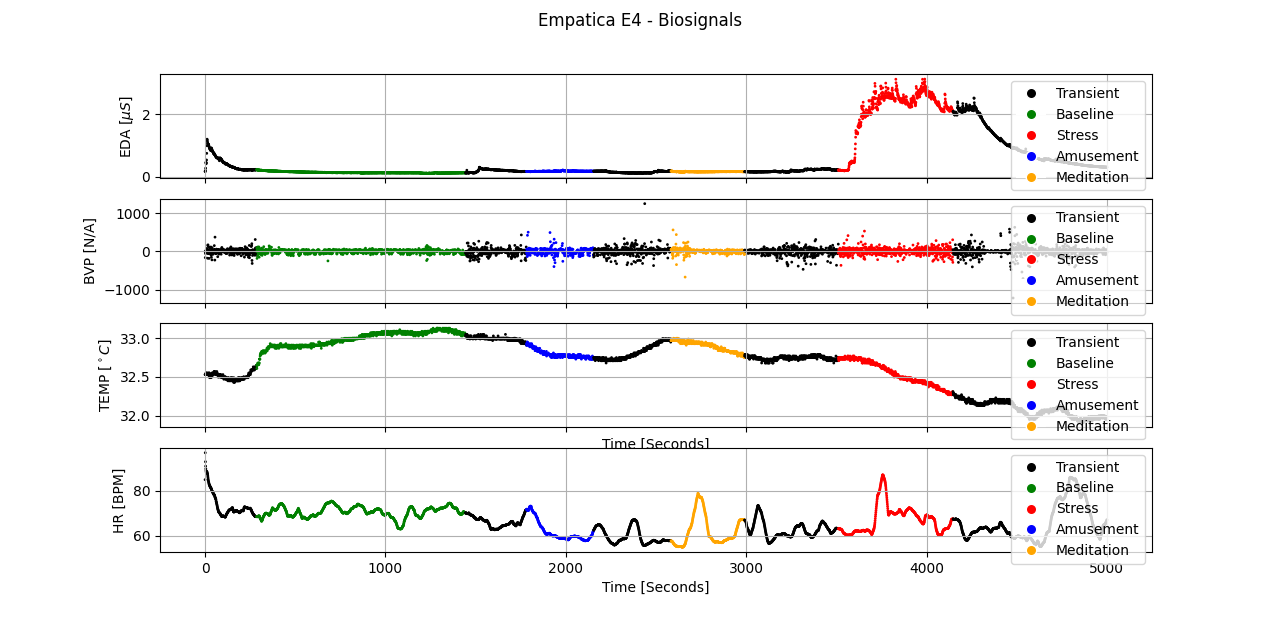
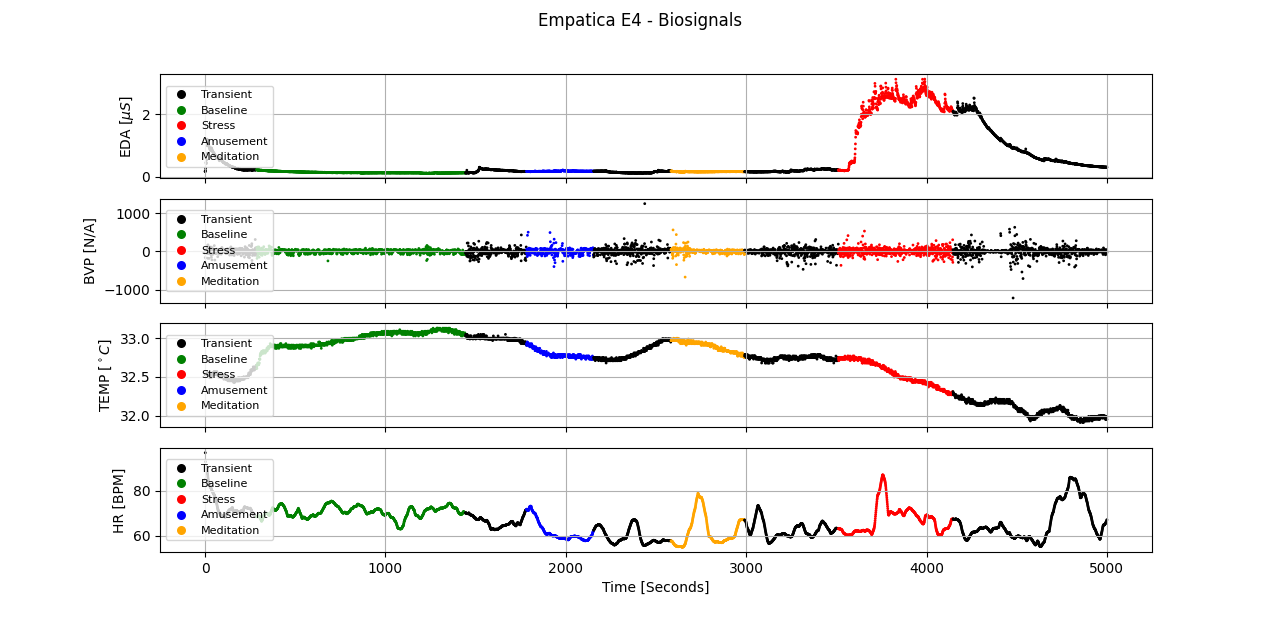
123

diff --git a/src/model/train.py b/src/model/train.py
@@ -1,9 +1,12 @@
-from tkinter import N
 import numpy as np
-from tqdm import tqdm
+import sklearn
 from sklearn import linear_model
+from sklearn.ensemble import RandomForestRegressor
+from sklearn.tree import DecisionTreeRegressor
+from sklearn.neighbors import NearestNeighbors
+from sklearn.model_selection import GridSearchCV
+from sklearn.metrics import mean_squared_error
 import sys
-import ast
 sys.path.insert(0, 'C:/Users/Bruger/Documents/CDA/CDA/src/data')
 from utils import preprocessing_utils as pre
 from data import *
@@ -11,8 +14,8 @@ from data import *
 
 # Signals to include
 signals = ["EDA","TEMP","BVP","HR"]
-window_size = [20,20,20,20]
-window_shift = [5,5,5,5]
+window_size = [50,50,50,50]
+window_shift = [13,13,13,13]
 fs = [4,4,32,1]
 
 # initialise memory
@@ -20,6 +23,18 @@ X_train = np.zeros((65,109)) # number of phases (for 13 subjects) x number of fe
 y_train = np.zeros((65,32)) # number of phases (for 13 subjects) x number of features
 X_test = np.zeros((5,109)) # number of phases (for one subject) x number of features
 y_test = np.zeros((5,32)) # number of phases x number of questions
+
+# dictonaries
+en = {}
+nn = {}
+dt = {}
+rf = {}
+
+# list for errors
+test_en = []
+test_nn = []
+test_dt = []
+test_rf = []
 
 # initialise number of cross-validation iterations
 #n = 10
@@ -29,16 +44,17 @@ n = 1
 s = np.arange(len(sub_lst))
 np.random.shuffle(s)
 
-
 # leave-one-patient-out cross-validation
 for v in range(n):
+
     CV_idx = [np.array(sub_lst)[s[v]]] # pick random subject to exclude for testing 
     train_idx = [np.array(sub_lst)[np.arange(len(sub_lst))!=s[v]]][0] # use all other subjects for training 
     c_train = -1 # counter 
     c_test = -1 # counter
+
     for j in range(5): # for every phase
         
-        # training-set
+        # train set
         for i in train_idx: # for every member of training
             c_train += 1 # update counter
             # feature extraction
@@ -71,9 +87,7 @@ for v in range(n):
             X_train[c_train,:] = X_temp # features
             y_train[c_train,:] = np.hstack([[int(a) for a in lst] for lst in [*quest[i][cond[j]].values()]]) # targets
 
-            # standardise 
-
-        # test_set
+        # test set
         for i in CV_idx: # for every member of testing
             c_test += 1 # update counter
             # feature extraction 
@@ -105,12 +119,75 @@ for v in range(n):
             # assign values
             X_test[c_test,:] = X_temp # features
             y_test[c_test,:] = np.hstack([[int(a) for a in lst] for lst in [*quest[i][cond[j]].values()]]) # targets
+            
+            
+    # compute values for standardisation
+    X_train_mean = np.mean(X_train,axis=0)
+    X_train_std = np.std(X_train,axis=0)
+    y_train_mean = np.mean(y_train,axis=0)
+    y_train_std = np.std(y_train,axis=0)
 
+    # standardise train and test
+    X_train = pre.Standardise(X_train,X_train_mean,X_train_std)
+    y_train = pre.Standardise(y_train,y_train_mean,y_train_std)
+    X_test = pre.Standardise(X_test,X_train_mean,X_train_std)
+    y_test = pre.Standardise(y_test,y_train_mean,y_train_std)
 
     # models
-    print(X_train,y_train)
+    #model_en = linear_model.ElasticNet()
+    #model_nn = KNeighborsRegressors(weights="distance",p=2)
+    #model_dt = DecisionTreeRegressor()
+    #model_rf = RandomForestRegressor()
+
+    # parameters for cross-validation
+    #param_grid_en = {"alpha": np.arange(0,3,0.25), "l1_ratio": np.arange(0,1,0.1)}
+    #param_grid_nn = {"n_neighbors": range(3,10)}
+    #param_grid_dt = {"max_depth":range(5,15) ,"min_samples_split" range(2,5):,"min_samples_leaf":range(2,5), "max_features": range(5,100,15)}
+    #param_grid_rf = {"n_estimators":range(30,151,5),"max_depth":range(5,15) ,"min_samples_split" range(2,5):,"min_samples_leaf":range(2,5), "max_features": range(5,100,15)}
+    
+    # grid search
+    #grid_en = GridSearchCV(estimator=model_en,param_grid=param_grid_en,cv=5)
+    #grid_nn = GridSearchCV(estimator=model_nn,param_grid=param_grid_nn,cv=5)
+    #grid_dt = GridSearchCV(estimator=model_dt,param_grid=param_grid_dt,cv=5)
+    #grid_rf = GridSearchCV(estimator=model_rf,param_grid=param_grid_rf,cv=5)
+
+    # fit 
+    #grid_en.fit(X_train,y_train)
+    #grid_nn.fit(X_train,y_train)
+    #grid_dt.fit(X_train,y_train)
+    #grid_rf.fit(X_train,y_train)
+
+    # save best model for testing 
+    #en[v] = {"best estimator":grid_en.best_estimator, "best parameters": grid_en.best_params_}
+    #nn[v] = {"best estimator":grid_nn.best_estimator, "best parameters": grid_nn.best_params_}
+    #dt[v] = {"best estimator":grid_dt.best_estimator, "best parameters": grid_dt.best_params_}
+    #rf[v] = {"best estimator":grid_rf.best_estimator, "best parameters": grid_rf.best_params_}
+
+    # testing
+    # test_en.append(mean_squared_error(y_test,en[v]["best estimator"].predict(X_test)))
+    # test_nn.aopend(mean_squared_error(y_test,nn[v]["best estimator"].predict(X_test)))
+    # test_dt.append(mean_squared_error(y_test,dt[v]["best estimator"].predict(X_test)))
+    # test_rf.append(mean_squared_error(y_test,rf[v]["best estimator"].predict(X_test)))
 
 
+# compare generalisation errors
+gen_en = np.mean(np.array(test_en))
+gen_nn = np.mean(np.array(test_nn))
+gen_dt = np.mean(np.array(test_dt))
+gen_rf = np.mean(np.array(test_rf))
 
-
+# find best overall model
+best_method = np.argmin(np.array([gen_en,gen_nn,gen_dt,gen_rf]))
+if best_method == 0:
+    best_model_best_method = np.argmin(np.array(test_en))
+    best = en[best_model]["best estimator"]
+elif best_method == 1:
+    best_model_best_method = np.argmin(np.array(test_nn))
+    best = nn[best_model]["best estimator"]
+elif best_method == 2:
+    best_model_best_method = np.argmin(np.array(test_dt))
+    best = dt[best_model]["best estimator"]
+else: 
+    best_model_best_method = np.argmin(np.array(test_rf))
+    best = rf[best_model]["best estimator"]
 

diff --git a/src/data/data.py b/src/data/data.py
@@ -53,10 +53,12 @@ for folder,sub_folders,files in os.walk(path):
         # load questions
         if name.endswith("_quest.csv"): # find desired csv files
             df = pd.read_csv(os.path.join(folder,name),sep=";") # load into dataframe
+            df_val = df.values.tolist() # get values
+            quest_temp = {}
+            quest[sub.rsplit("_",1)[0]] = {}
+            count = 0
             if sub.rsplit("_",1)[0] in vers1: # version 1 of study-protocol
-                count = 0
                 for i in cond1:
-                    df_val = df.values.tolist() # get values
                     # special case
                     #if i == "stress":
                     #    quest_temp[i] = {"PANAS": df_val[4+count][1:],"STAI": df_val[10+count][1:7],"DIM": df_val[16+count][1:3],"SSSQ":df_val[22][1:6]}
@@ -66,19 +68,19 @@ for folder,sub_folders,files in os.walk(path):
                     count += 1     
                 quest[sub.rsplit("_",1)[0]] = quest_temp # add to nested dictionary
             else: # version 2 of study-protocol
-                count = 0
                 for i in cond2:
-                    df_val = df.values.tolist() 
                     #if i == "stress": 
                     #    quest_temp[i] = {"PANAS": df_val[4+count][1:],"STAI": df_val[10+count][1:7],"DIM": df_val[16+count][1:3],"SSSQ":df_val[22][1:6]}
                     #    count += 1
                     #else:   
                     quest_temp[i] = {"PANAS": df_val[4+count][1:25],"STAI": df_val[10+count][1:7],"DIM": df_val[16+count][1:3]}
                     count += 1
-                quest[sub.rsplit("_",1)[0]] = quest_temp 
+                quest[sub.rsplit("_",1)[0]] = quest_temp
 
         # load biosignals and labels     
         elif name.endswith(".pkl"): # find files with .pkl extension
+            dataset_temp = {}
+            dataset[sub] = {}
             with open(os.path.join(folder,name) ,"rb") as file:
                 
                 tmp = pickle._Unpickler(file) # unpickle
@@ -169,4 +171,4 @@ for folder,sub_folders,files in os.walk(path):
 
         dataset[sub] = dataset_temp # add to nested dictionary
 
-#print(dataset,quest)
+#print(quest["S2"]["base"],quest["S3"]["base"],quest["S4"]["base"])

diff --git a/src/model/model_1.py b/src/model/model_1.py
@@ -98,16 +98,16 @@ ax3.scatter(t,TEMP[0:n],s=1,c=col[0:n])
 ax4.scatter(t,HR[0:n],s=1,c=col[0:n])
 ax1.set(ylabel = "EDA [$\mu S$]")
 ax2.set(ylabel = "BVP [N/A]")
-ax3.set(xlabel = "Time [Seconds]", ylabel = "TEMP [$^\circ C$]")   
+ax3.set(ylabel = "TEMP [$^\circ C$]")   
 ax4.set(xlabel = "Time [Seconds]", ylabel = "HR [BPM]")                                                                                                                                  
 ax1.grid()
 ax2.grid()
 ax3.grid()
 ax4.grid()
-ax1.legend(handles=legend_elements,loc="upper right")
-ax2.legend(handles=legend_elements,loc="upper right")
-ax3.legend(handles=legend_elements,loc="upper right")
-ax4.legend(handles=legend_elements,loc="upper right")
+ax1.legend(handles=legend_elements,loc="center left", prop={'size': 8})
+ax2.legend(handles=legend_elements,loc="center left", prop={'size': 8})
+ax3.legend(handles=legend_elements,loc="center left", prop={'size': 8})
+ax4.legend(handles=legend_elements,loc="center left", prop={'size': 8})
 plt.show()
 
 # extra

diff --git a/src/data/utils/preprocessing_utils.py b/src/data/utils/preprocessing_utils.py
@@ -18,9 +18,9 @@ def extract_coefficients(p, degree):
     return c[::-1]
 
 def Standardise(X,mean,std):
-    X = X-mean
-    X = X/std
+    X = (X-mean)/std
     return X
+
 
 def EMA(X,a):
     S = np.zeros(len(X))
